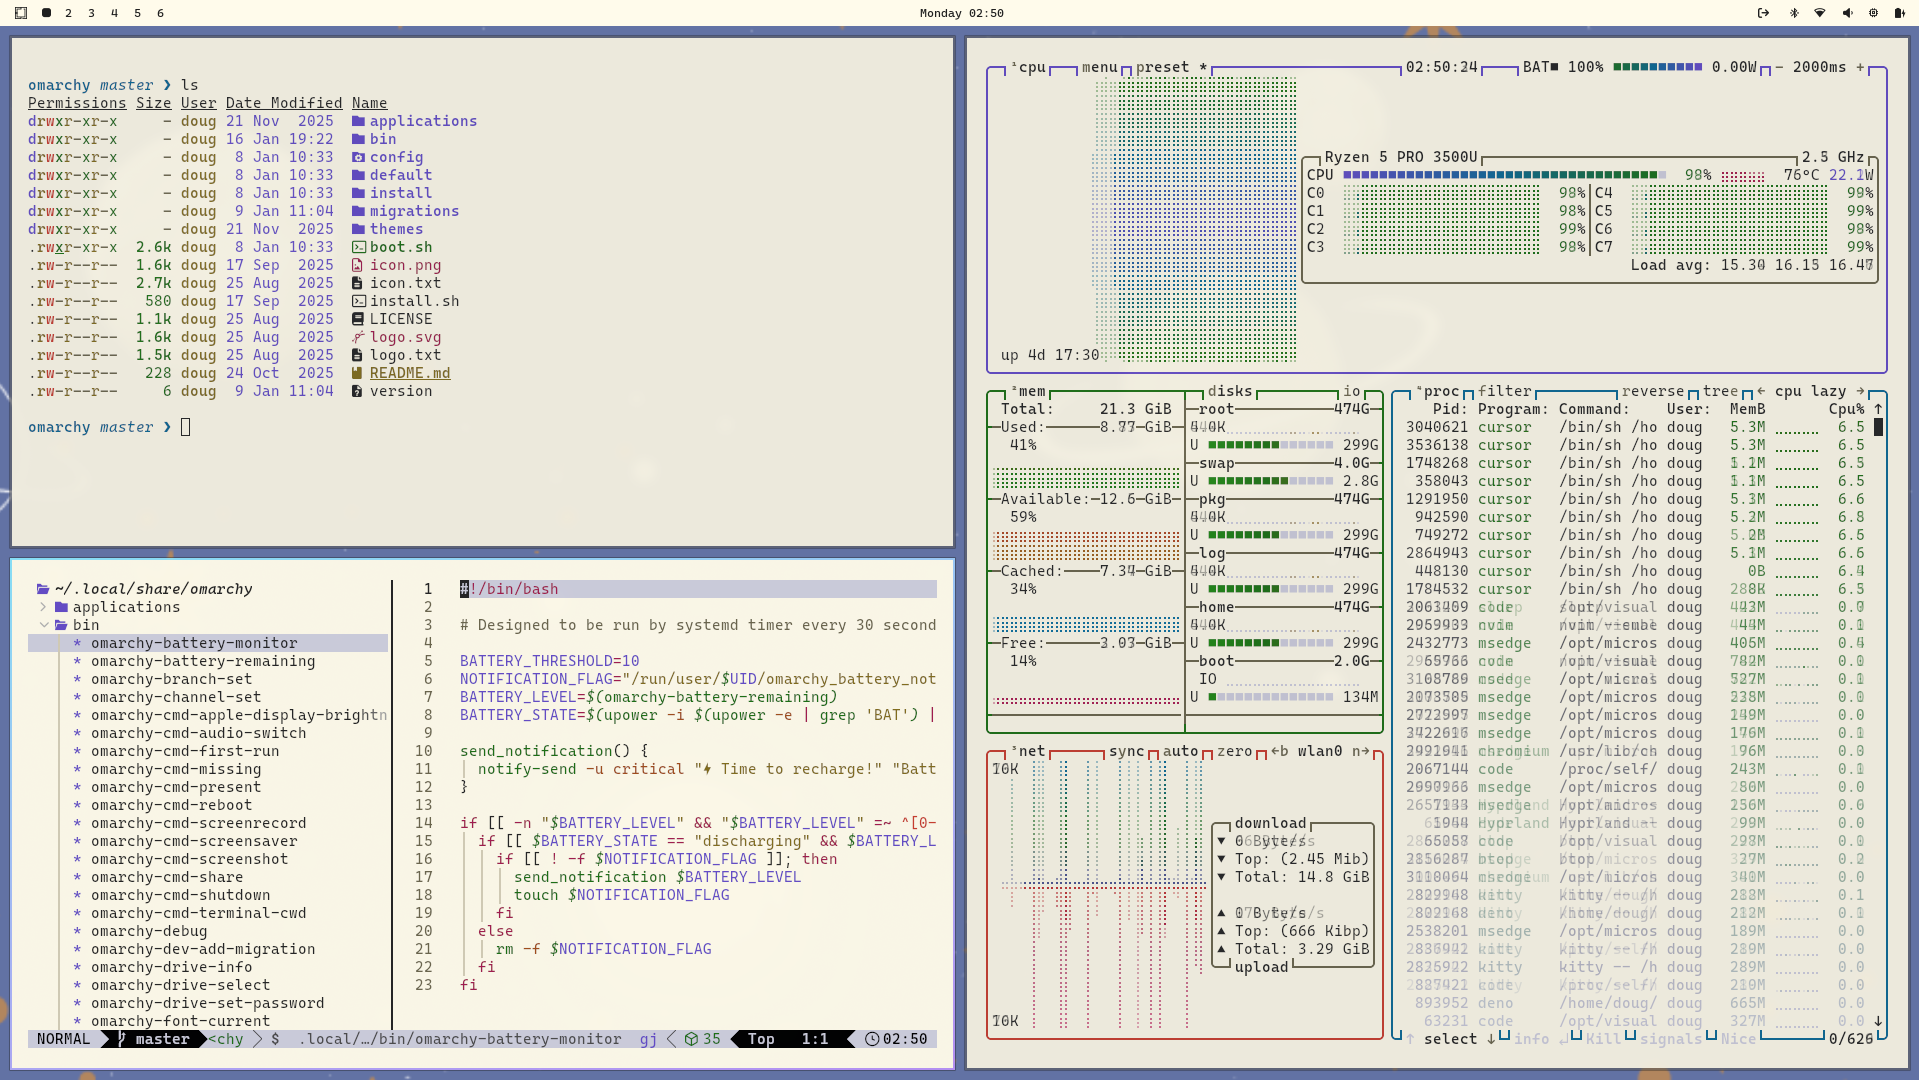
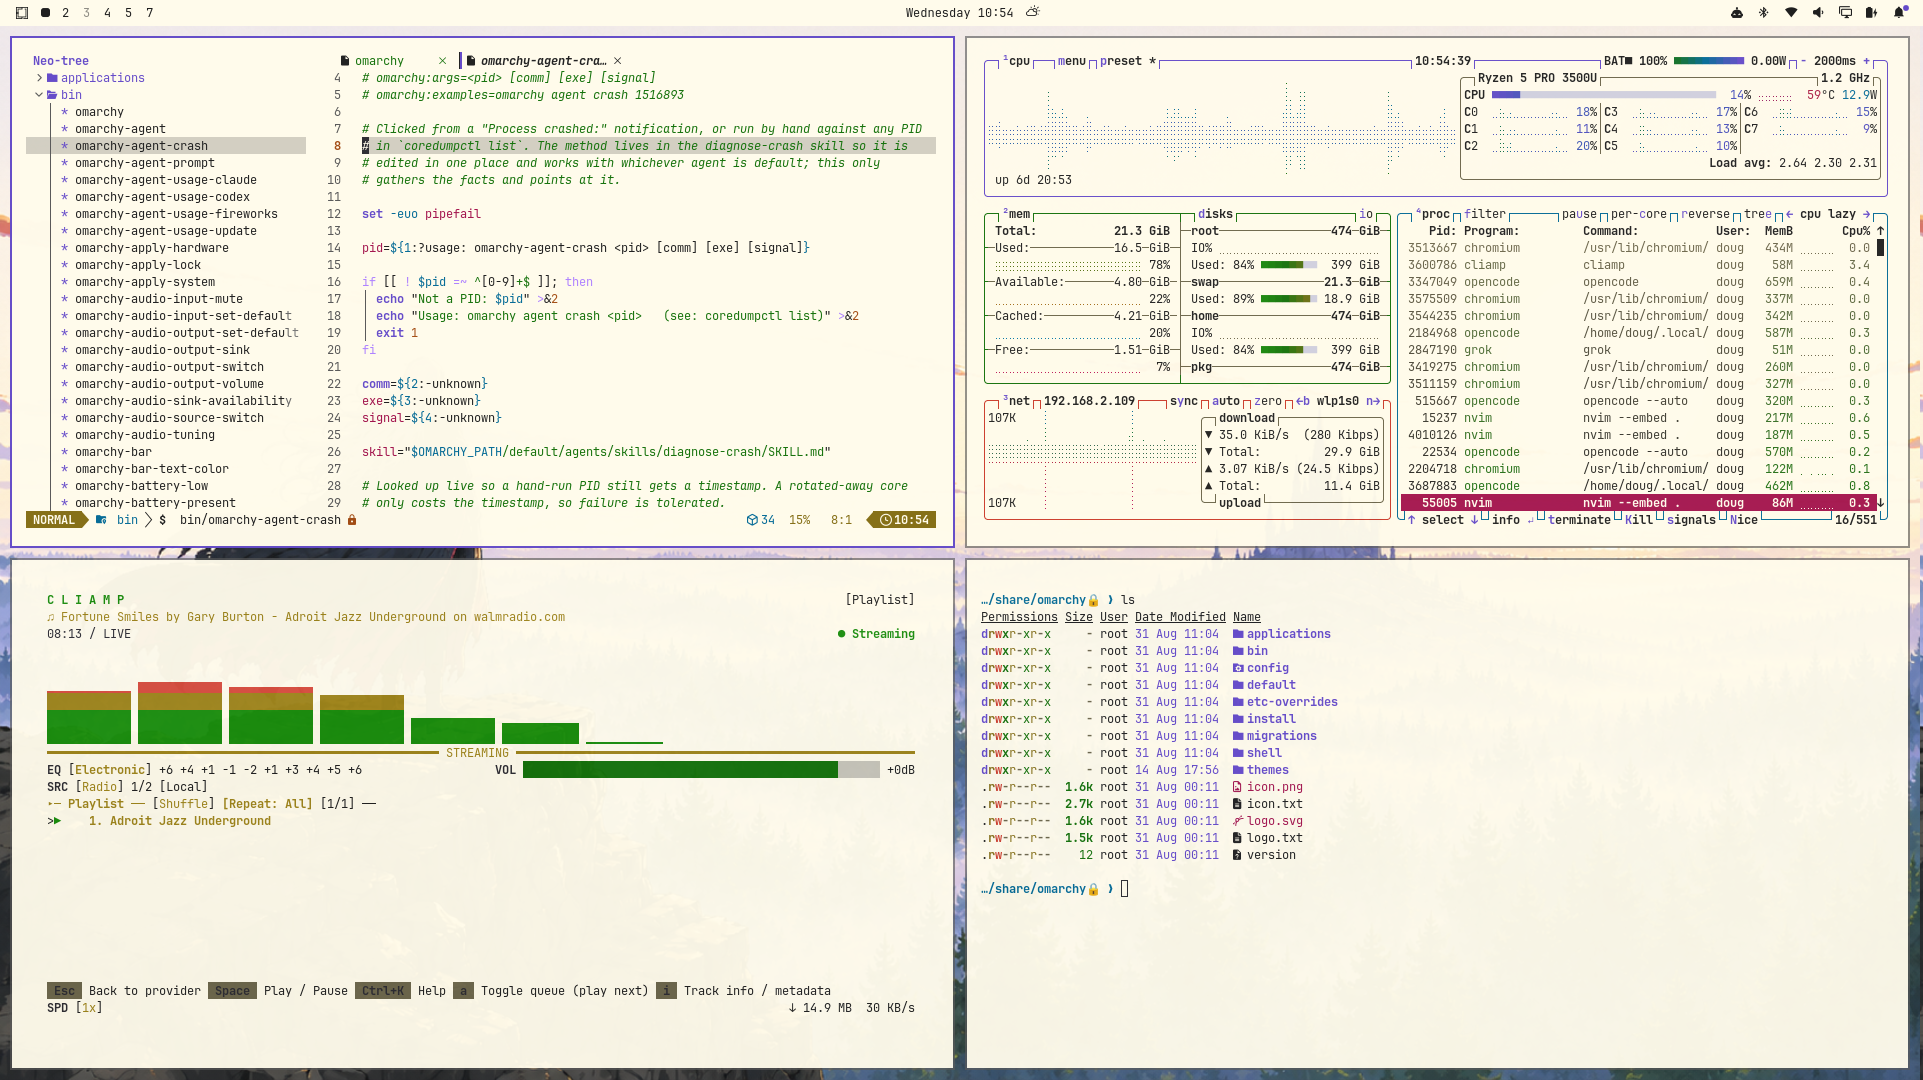
✨ Update theme for Omarchy 4
Rewrite colors.toml to the semantic Alucard palette, drop
pre-Quattro app configs, and add lock-screen previews.

diff --git a/README.md b/README.md
@@ -6,17 +6,13 @@
 
 ## Install
 
-To install this theme, simply use the `omarchy-theme-install` command:
-
 ```bash
-omarchy-theme-install https://github.com/douglasdemoura/omarchy-alucard-theme
+omarchy theme install https://github.com/douglasdemoura/omarchy-alucard-theme
 ```
 
 ## VS Code theme
 
-You will need to install the Alucard theme manually, as it is not available on the extensions marketplace right now.
-As the [Dracula](https://draculatheme.com/spec#implementation-guidelines) specification states, the [Cursor theme](https://github.com/dracula/cursor)
-is the reference implementation. Follow the [installation instructions](https://draculatheme.com/cursor), only replacing Cursor with VS Code.
+Omarchy generates a VS Code theme from this palette automatically. For spec-accurate syntax highlighting, install the Alucard theme manually — it is not on the marketplace. As the [Dracula](https://draculatheme.com/spec#implementation-guidelines) specification states, the [Cursor theme](https://github.com/dracula/cursor) is the reference implementation. Follow the [installation instructions](https://draculatheme.com/cursor), only replacing Cursor with VS Code.
 
 ## Team
 

diff --git a/INSTALL.md b/INSTALL.md
@@ -2,8 +2,6 @@
 
 #### Installation
 
-To install this theme, simply use the `omarchy-theme-install` command:
-
 ```bash
-omarchy-theme-install https://github.com/douglasdemoura/omarchy-alucard-theme
+omarchy theme install https://github.com/douglasdemoura/omarchy-alucard-theme
 ```
